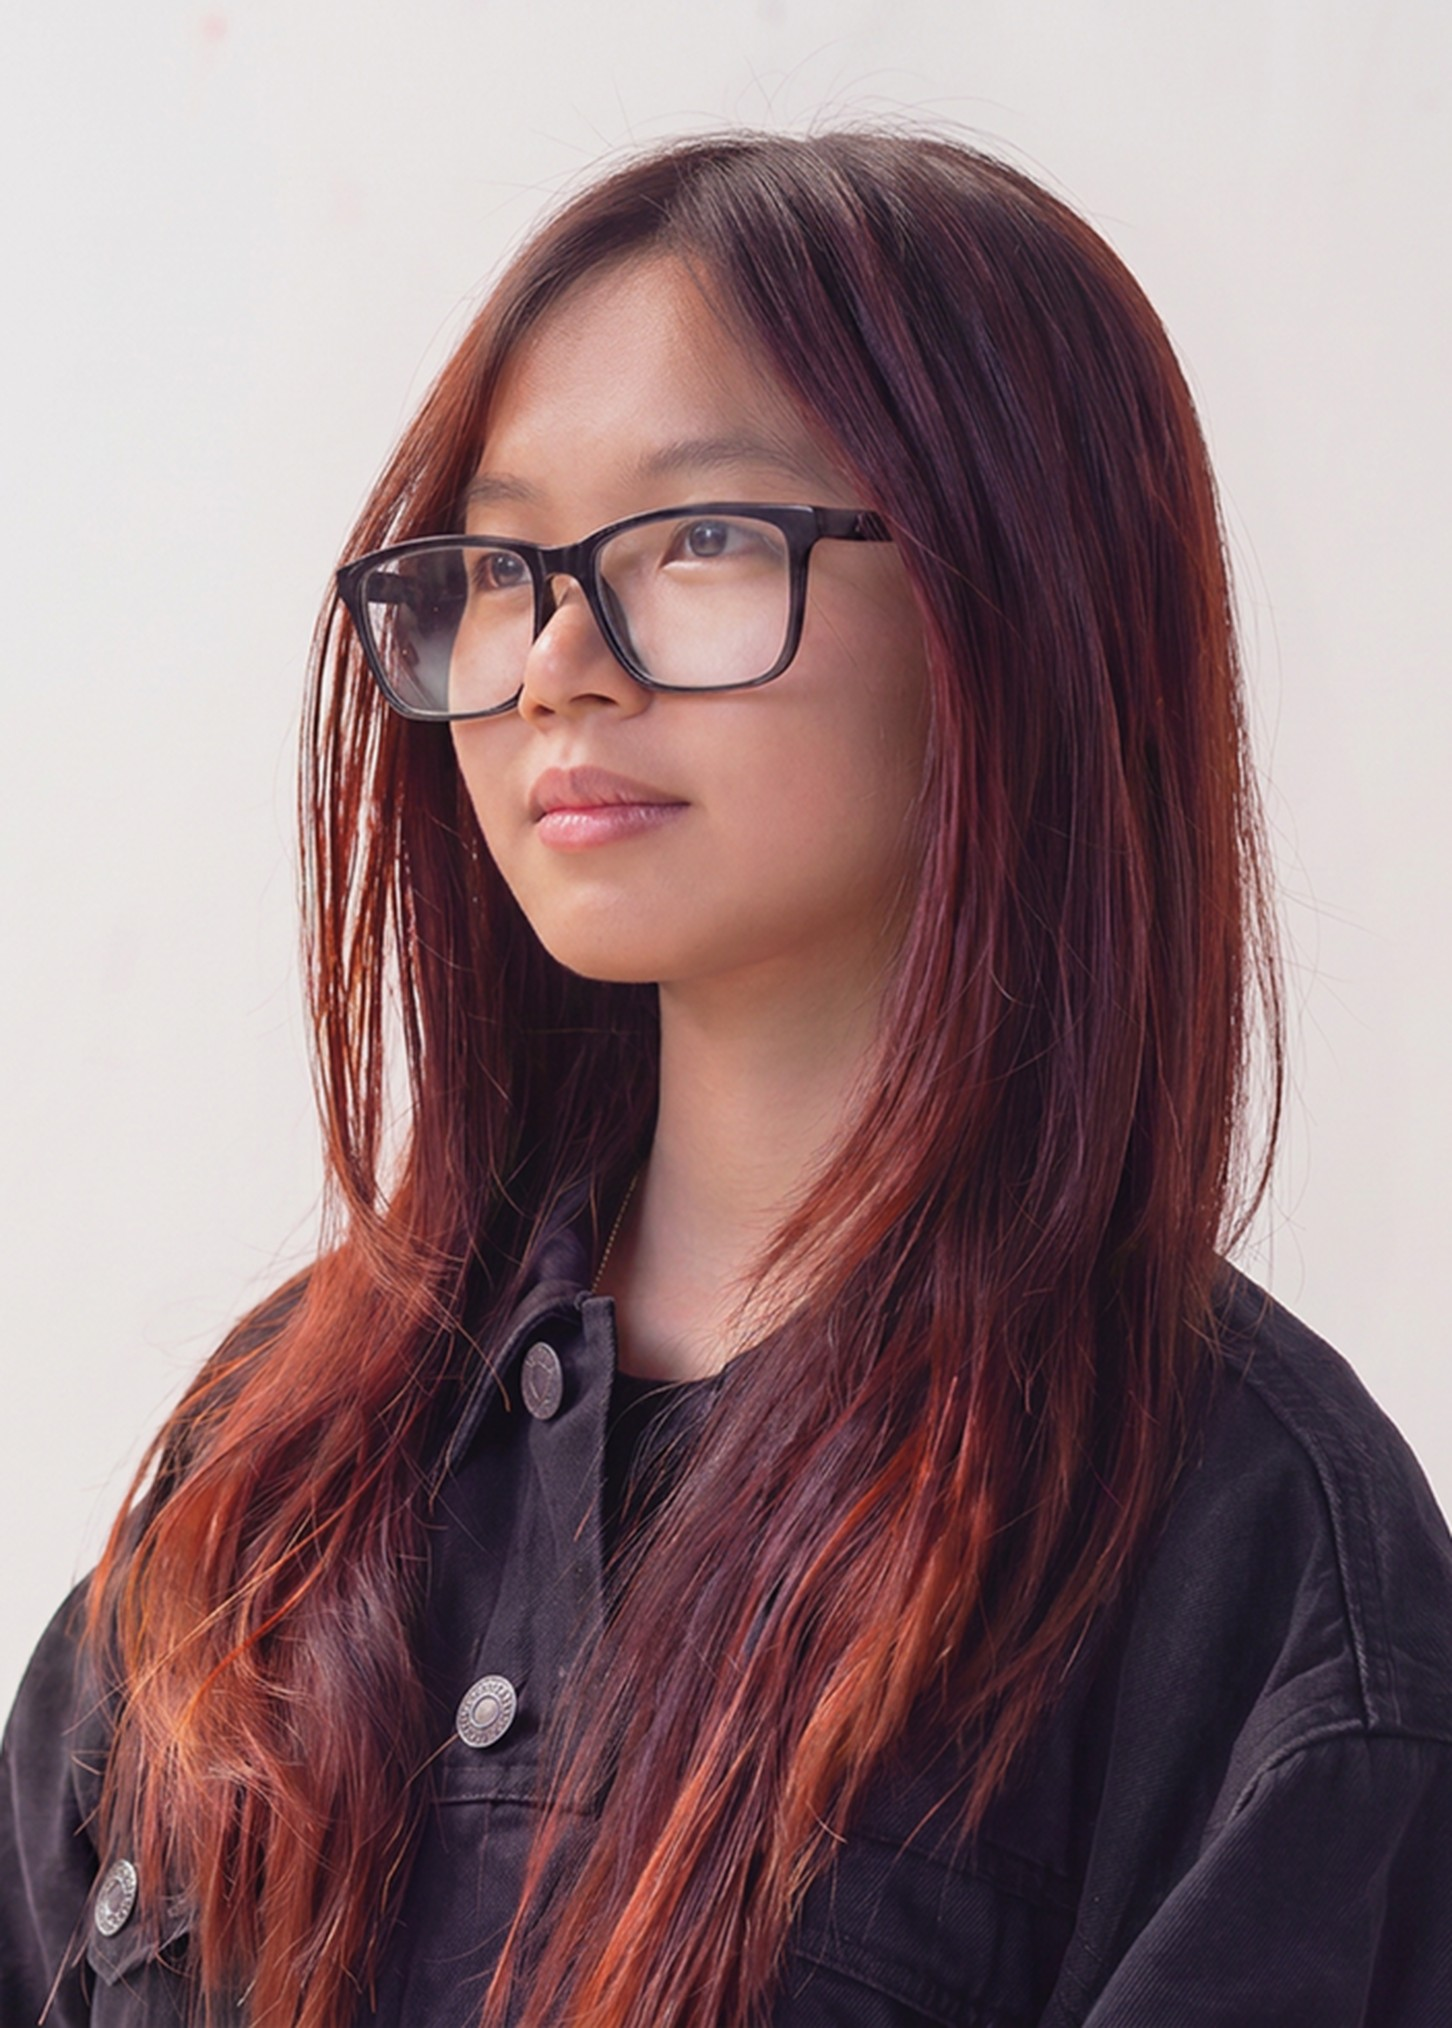
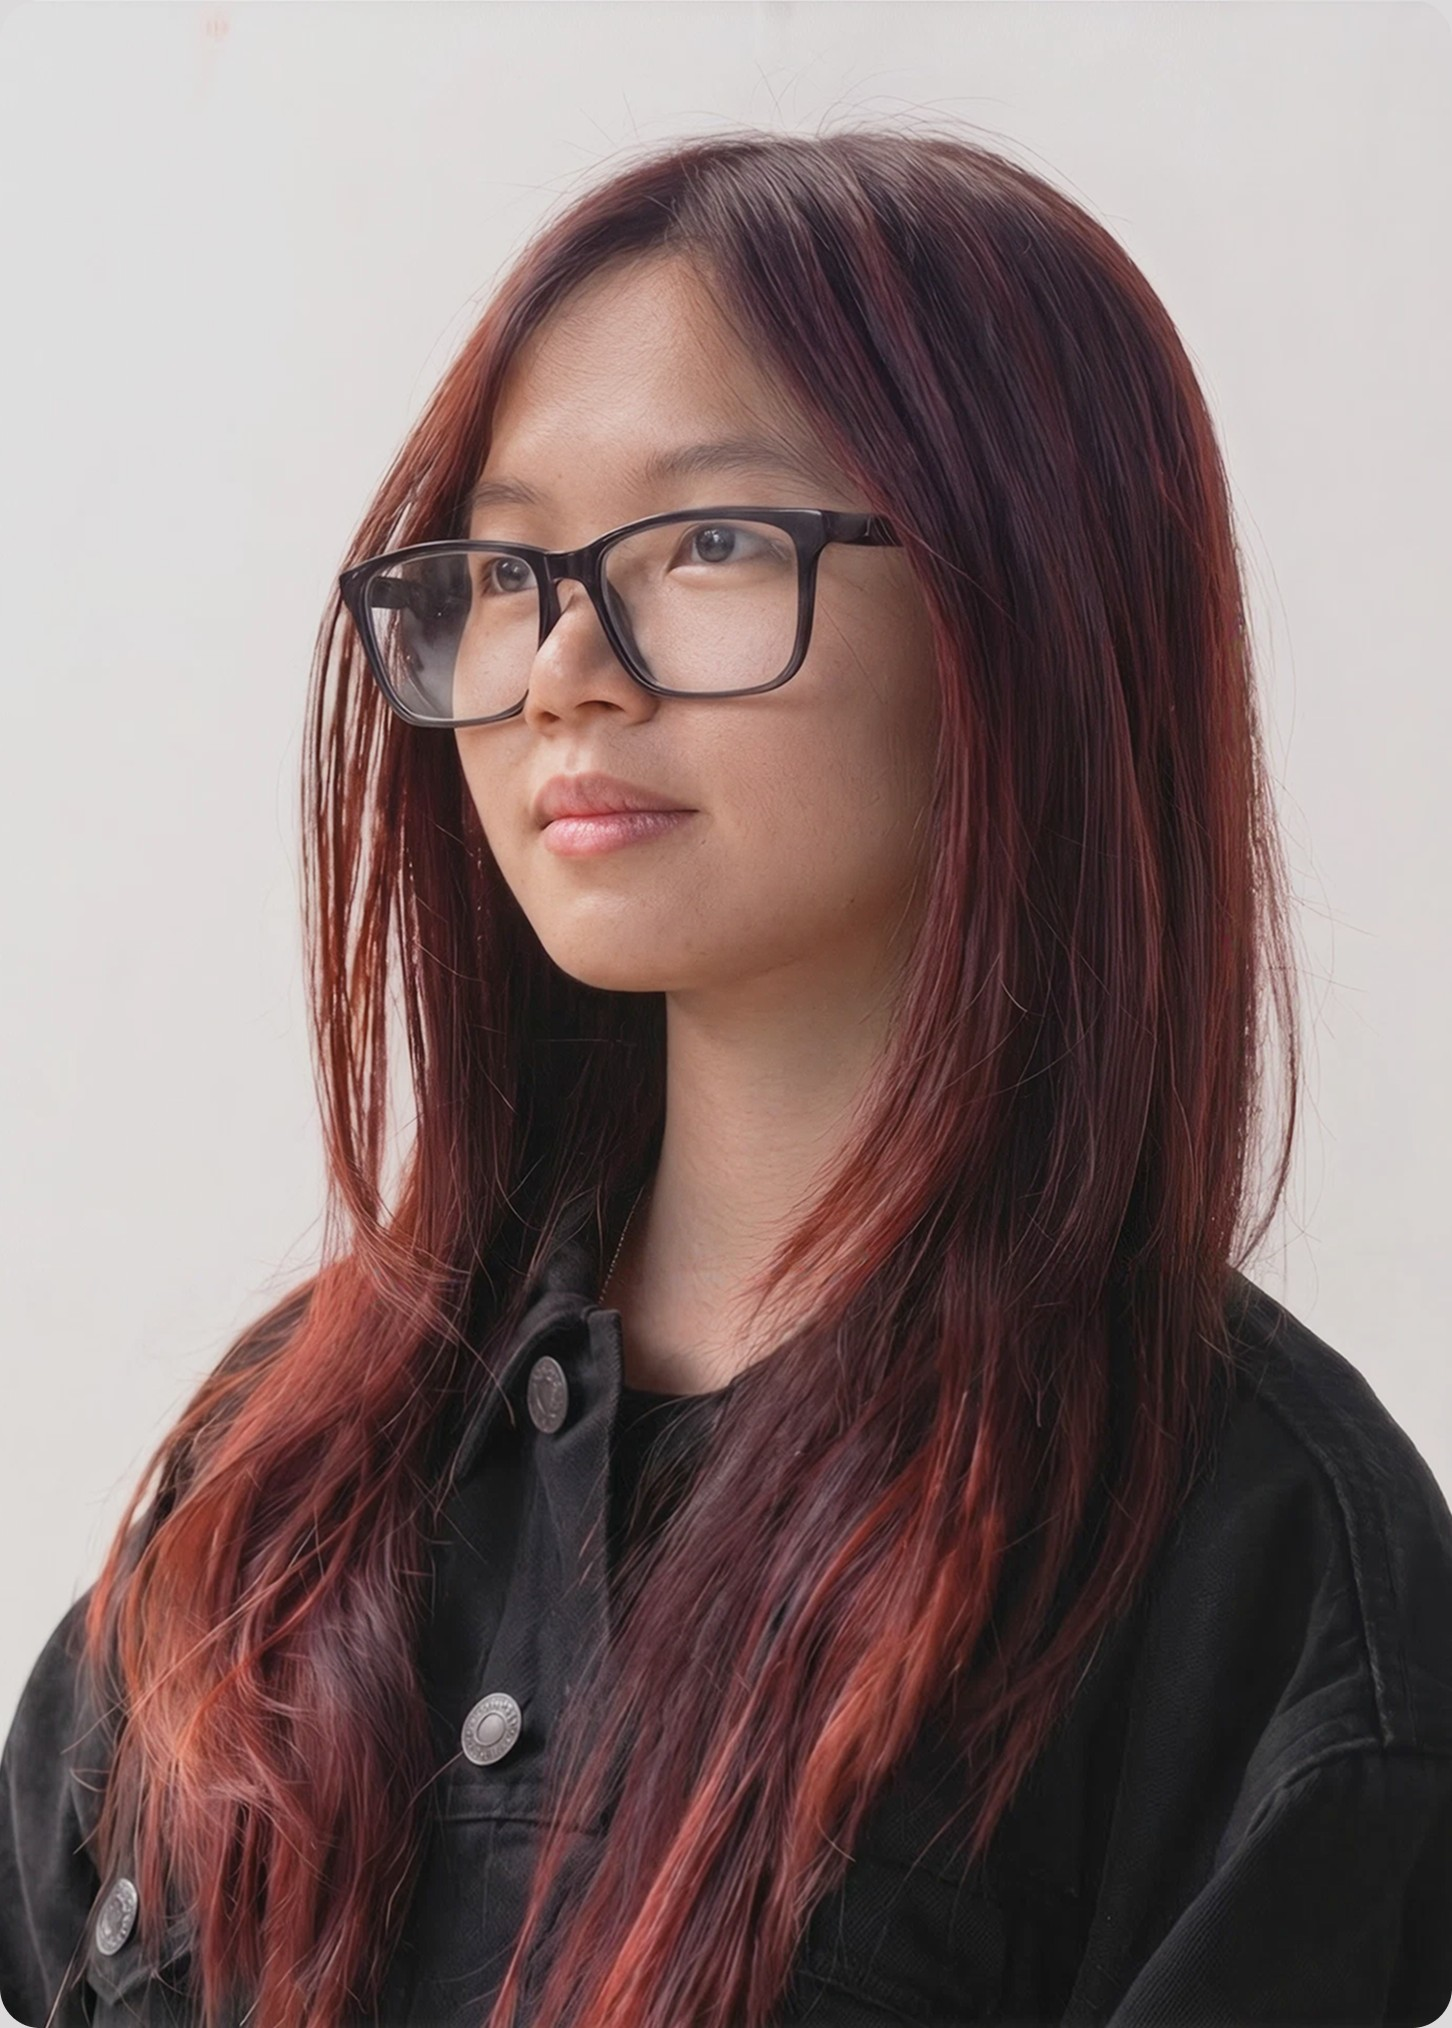
Swap hero collage portrait photo again

diff --git a/claude/checkpoints/2026-08-20-hero-portrait-photo-swap-5.md b/claude/checkpoints/2026-08-20-hero-portrait-photo-swap-5.md
@@ -1,0 +1,28 @@
+# Checkpoint — Hero collage portrait photo swap (fifth time)
+
+## Context
+
+Fifth swap of the same hero collage portrait slot this session (`2026-08-13-hero-portrait-photo-swap.md`, `2026-08-20-hero-portrait-photo-swap-2.md` through `-4.md`). Same pose/backdrop family as the immediately prior version.
+
+## Human directions
+
+- "sorry, can you replace it with this image now: [new photo]" (source file `Rectangle 148.png`)
+- "build and push"
+
+## Records of resistance / things I got wrong and had to correct
+
+- New export arrived at exactly the target resolution (1452×2028, matching aspect ratio already) — simpler than the prior two swaps, no crop needed.
+- Had alpha transparency at all four corners, but checked *where* before assuming another export artifact like the one fixed in checkpoint `-3`: sampled the alpha channel directly and confirmed it's a genuine antialiased rounded-rectangle corner mask (smooth diagonal falloff, isolated to each corner's own radius), not a full-width edge band. Confirmed this is redundant rather than needed — `CollagePhoto.tsx:30` already applies `rounded-[10px] overflow-hidden` in CSS to every photo in the collage regardless of the source image's own shape — so flattened the transparent corners onto the photo's own sampled backdrop color (matching the flatten treatment used for every other version) rather than trying to preserve them.
+
+## Successes
+
+- Verified via Puppeteer against a production build: renders correctly at the expected position/size, zero horizontal overflow on mobile.
+- `npx tsc --noEmit` clean; `npx eslint` shows only the same pre-existing, unrelated `HeroSection.tsx` error from every prior checkpoint this session.
+
+## State at this checkpoint
+
+- **Modified** `src/assets/hero/portrait.jpg`: replaced with the new photo (already 1452×2028, no resize needed), flattened onto its own sampled backdrop color (220, 218, 218) to remove the baked-in rounded-corner transparency before saving as an opaque JPEG.
+
+## Remaining work
+
+- Same open item carried from the last two checkpoints: the light/cream backdrop still doesn't match the rest of the collage's dark backdrop. Still unaddressed, still the user's call whenever they want it revisited.
